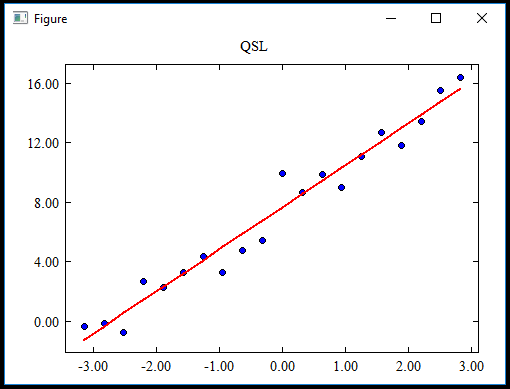
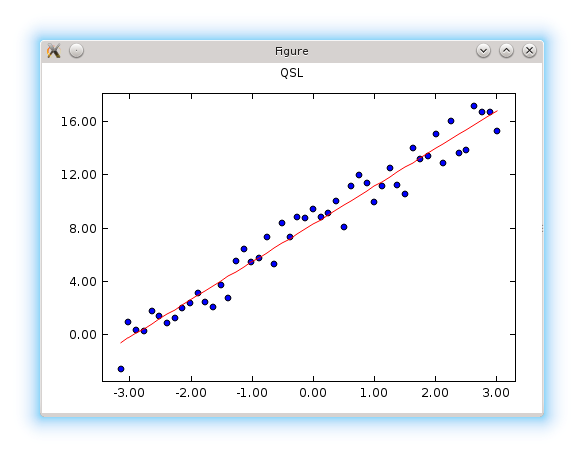
Use object model in LinearRegression and hide gsl includes

diff --git a/src/QSL/LinearRegression.cpp b/src/QSL/LinearRegression.cpp
@@ -18,36 +18,36 @@
  * If not, see <http://www.gnu.org/licenses/>.
  */
 
-#ifndef QSL_LINEARREGRESSION_H
-#define QSL_LINEARREGRESSION_H
-
-#include <QSL/Object.h>
-#include <QSL/Array1D.h>
+#include <QSL/LinearRegressionPrivate.h>
 
 QSL_BEGIN_NAMESPACE
 
-class QSL_API LinearRegression
-    : public QSL::Object
-{
-public:
-
-   LinearRegression(const Array1D<double> &x,
-                    const Array1D<double> &y);
+LinearRegression::LinearRegression(const Array1D<double> &x,
+                                   const Array1D<double> &y)
+    : QSL::Object(new LinearRegressionPrivate(this, x, y))
+{ }
 
 
-   void execute();
+void LinearRegression::execute() {
+    QSL_PUBLIC(LinearRegression);
+    gsl_fit_linear(
+         m->x.begin(), 1,
+         m->y.begin(), 1,
+         m->x.size(),
+         &m->par1, &m->par2,
+         &m->cov00, &m->cov01, &m->cov11,
+         &m->chiSqr
+    );
+}
 
-   Array1D<double> solution() const;
 
-   static inline Array1D<double> exec(const Array1D<double> &x,
-                                      const Array1D<double> &y)
-   {
-       LinearRegression linReg(x, y);
-       linReg.execute();
-       return std::move(linReg.solution());
-   }
-};
+Array1D<double> LinearRegression::solution() const {
+    QSL_PUBLIC(const LinearRegression);
+   return std::move(Array1D<double>{
+        m->par1, m->par2,
+        m->cov00, m->cov01, m->cov11,
+        m->chiSqr
+   });
+}
 
 QSL_END_NAMESPACE
-
-#endif // QSL_LINEARREGRESSION_H

diff --git a/src/QSL/LinearRegressionPrivate.h b/src/QSL/LinearRegressionPrivate.h
@@ -18,36 +18,36 @@
  * If not, see <http://www.gnu.org/licenses/>.
  */
 
-#ifndef QSL_LINEARREGRESSION_H
-#define QSL_LINEARREGRESSION_H
+#ifndef QSL_LINEARREGRESSION_PRIVATE_H
+#define QSL_LINEARREGRESSION_PRIVATE_H
 
-#include <QSL/Object.h>
-#include <QSL/Array1D.h>
+#include <QSL/LinearRegression.h>
+#include <gsl/gsl_fit.h>
 
 QSL_BEGIN_NAMESPACE
 
-class QSL_API LinearRegression
-    : public QSL::Object
+class LinearRegressionPrivate
+    : public QSL::ObjectPrivate
 {
 public:
 
-   LinearRegression(const Array1D<double> &x,
-                    const Array1D<double> &y);
+    LinearRegressionPrivate(LinearRegression *publ,
+                            const Array1D<double> &ix,
+                            const Array1D<double> &iy)
+        : QSL::ObjectPrivate(publ)
+        , x(ix)
+        , y(iy)
+    { }
 
 
-   void execute();
+    Array1D<double> x;
+    Array1D<double> y;
 
-   Array1D<double> solution() const;
-
-   static inline Array1D<double> exec(const Array1D<double> &x,
-                                      const Array1D<double> &y)
-   {
-       LinearRegression linReg(x, y);
-       linReg.execute();
-       return std::move(linReg.solution());
-   }
+    double chiSqr;
+    double par1, par2;
+    double cov00, cov01, cov11;
 };
 
 QSL_END_NAMESPACE
 
-#endif // QSL_LINEARREGRESSION_H
+#endif // QSL_LINEARREGRESSION_PRIVATE_H

diff --git a/src/QSL/Global.h b/src/QSL/Global.h
@@ -25,8 +25,6 @@
 
 #define QSL_BEGIN_NAMESPACE namespace QSL {
 #define QSL_END_NAMESPACE } // namespace QSL
-#define QSL_BEGIN_INTEGRATION_NAMESPACE namespace QSL { namespace Integration {
-#define QSL_END_INTEGRATION_NAMESPACE }} // namespace QSL::Integration
 
 #define QSL_API
 
@@ -36,11 +34,6 @@ template <typename T> inline T sqr(const T &x) { return x*x; }
 template <typename T> inline T pow2(const T &x) { return x*x; }
 template <typename T> inline T pow3(const T &x) { return x*x*x; }
 template <typename T> inline T pow4(const T &x) { return x*x*x*x; }
-QSL_END_NAMESPACE
-
-// Contants
-QSL_BEGIN_NAMESPACE
-const double PI = 3.1415926;
 QSL_END_NAMESPACE
 
 #endif // QSL_GLOBAL_H

diff --git a/demos/minimal.cpp b/demos/minimal.cpp
@@ -11,13 +11,13 @@ int main(int argc, char *argv[]) {
     QApplication app(argc, argv);
     Random rand;
 
-    const int ptCount = 20;
-    const double step = 2.0*PI/ptCount;
+    const int ptCount = 50;
+    const double step = 2.0*M_PI/ptCount;
     Array1D<double> x(ptCount), y(ptCount), yFit;
 
     // simulate data
     for (int k=0; k<ptCount; ++k) {
-        x[k] = -PI + k*step;
+        x[k] = -M_PI + k*step;
         y[k] = ( 8.0 + 3.0*x[k] ) + rand.nextFloat(4.0)-2.0;
     }
 

diff --git a/README.md b/README.md
@@ -4,3 +4,16 @@ QSL
 QSL is a free (LGPL3) C++/Qt library with utilities for science. Our
 goal is to mimic the set of tools NumPy, SciPy and matplotlib from
 Python down here in the world of C++ performance.
+
+QSL provide a widget to visualize data as many forms of charts. It also
+provides classes that executes various machine learning and data-related
+tasks like:
+
+   * Linear Regression
+   * Maximization and minimization
+
+The following figure shows a screenshot of one of the demo apps bundled
+together with QSL. It shows our chart widget and a line from the linear
+regression class that best represents the data points shown.
+
+[](https://github.com/elvismt/QSL/blob/master/demos/linreg.png)
